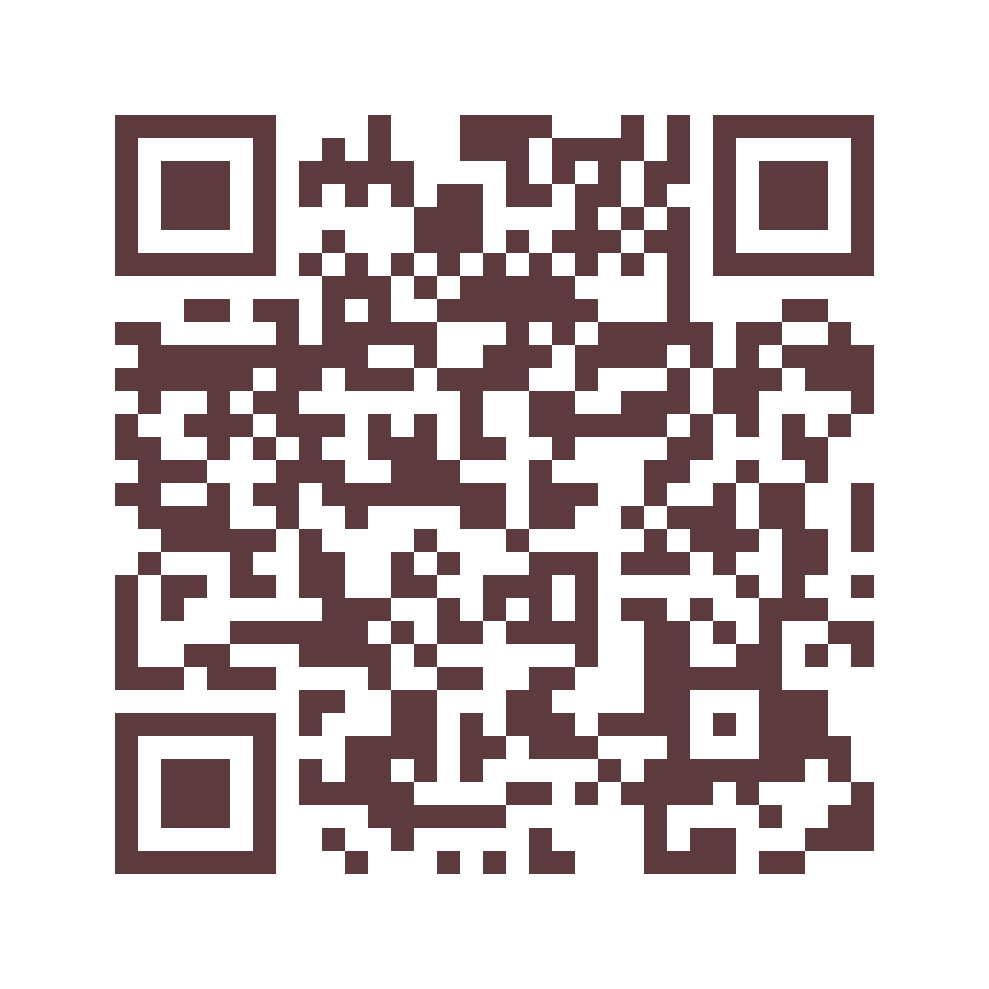
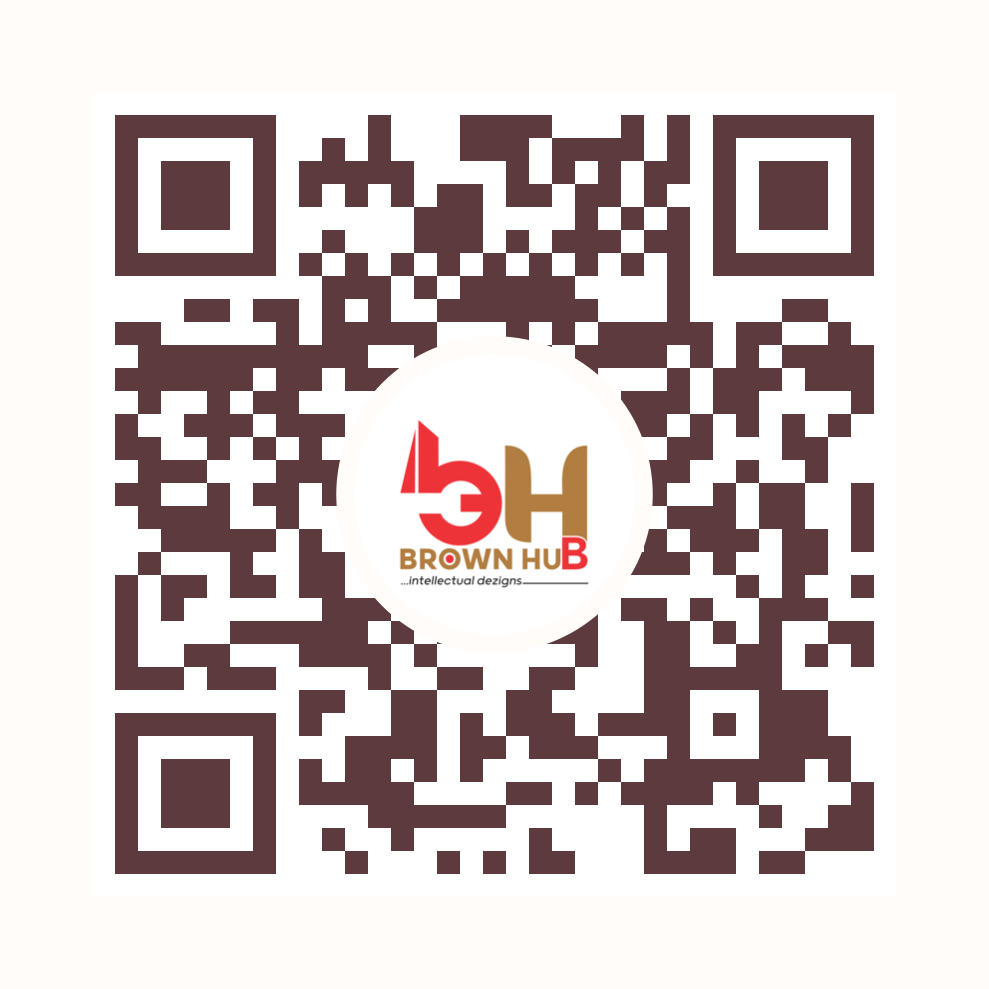
Set the studio badge in the middle of the install code
The QR was a plain black-and-cream square, so it read as a generic link
rather than something BrownHub handed you. Level H correction carries the
carved-out centre: 0.32 of the side covers about a tenth of the modules
and still decodes at every size down to 80px and under an 8px blur, while
0.40 fails outright, so there is no headroom above what shipped.

The generator now lives in tools/ so the file is reproducible, which means
the Jekyll exclude list grows a fourth entry — the repository is the
deployment, and a build script has no business answering at a public URL.

Changed region(s): [[0.3337, 0.3337, 0.6673, 0.6673]]

diff --git a/tools/qrlogo.swift b/tools/qrlogo.swift
@@ -1,0 +1,101 @@
+// qrlogo <text> <out.png> <logo.png> [px] [quiet] [badge fraction]
+// BrownHub QR with the studio badge in the middle. Level H correction carries a mask of
+// roughly a tenth of the modules, so the centre is carved out on a clean cream disc (a
+// QR is scanned by its grid, never by its fill colour, so a solid light patch reads as
+// background). The finished file is decoded back with Vision and CoreImage, and Vision
+// has to read the payload for this script to exit 0.
+// 0.32 is the shipped size: it decodes at every rendered size down to 80px and under a
+// 8px blur, and 0.40 does not decode at all, so there is no headroom above it.
+import Cocoa
+import CoreImage
+import Vision
+
+let a = CommandLine.arguments
+guard a.count >= 4, let text = a[1].data(using: .utf8) else {
+    FileHandle.standardError.write("usage: qrlogo <text> <out.png> <logo.png> [px] [quiet]\n".data(using: .utf8)!)
+    exit(2)
+}
+let px = a.count > 4 ? (Int(a[4]) ?? 1024) : 1024
+let quiet = a.count > 5 ? (Int(a[5]) ?? 4) : 4
+let frac = a.count > 6 ? (Double(a[6]) ?? 0.32) : 0.32
+let cream = (r: CGFloat(1.0), g: CGFloat(0.984), b: CGFloat(0.969))   // #fffbf7
+
+func vec(_ v: [CGFloat]) -> CIVector { CIVector(values: v, count: 4) }
+func die(_ m: String) -> Never { FileHandle.standardError.write((m + "\n").data(using: .utf8)!); exit(1) }
+
+guard let gen = CIFilter(name: "CIQRCodeGenerator") else { die("no generator filter") }
+gen.setValue(text, forKey: "inputMessage")
+gen.setValue("H", forKey: "inputCorrectionLevel")
+guard let raw = gen.outputImage else { die("no code") }
+let mods = Int(raw.extent.width.rounded())
+
+guard let tint = CIFilter(name: "CIColorMatrix") else { die("no colour filter") }
+tint.setValue(raw, forKey: "inputImage")
+tint.setValue(vec([0.894, 0.0, 0.0, 0.0]), forKey: "inputRVector")
+tint.setValue(vec([0.0, 0.957, 0.0, 0.0]), forKey: "inputGVector")
+tint.setValue(vec([0.0, 0.0, 0.953, 0.0]), forKey: "inputBVector")
+tint.setValue(vec([0.0, 0.0, 0.0, 1.0]), forKey: "inputAVector")
+tint.setValue(vec([0.106, 0.043, 0.047, 0.0]), forKey: "inputBiasVector")
+guard let inked = tint.outputImage else { die("no tint") }
+
+let per = max(1, px / (mods + 2 * quiet))          // whole modules, never a half-pixel edge
+let side = (mods + 2 * quiet) * per
+
+guard let ctx = CGContext(data: nil, width: side, height: side, bitsPerComponent: 8, bytesPerRow: 0,
+                          space: CGColorSpaceCreateDeviceRGB(),
+                          bitmapInfo: CGImageAlphaInfo.premultipliedLast.rawValue) else { die("no context") }
+ctx.interpolationQuality = .none
+ctx.setFillColor(CGColor(red: cream.r, green: cream.g, blue: cream.b, alpha: 1))
+ctx.fill(CGRect(x: 0, y: 0, width: side, height: side))
+
+let ci = CIContext()
+guard let cg = ci.createCGImage(inked, from: inked.extent) else { die("no bitmap") }
+ctx.draw(cg, in: CGRect(x: quiet * per, y: quiet * per, width: mods * per, height: mods * per))
+
+// Clear the centre to the same cream the code sits on, then stamp the badge into it.
+let box = CGFloat(side) * CGFloat(frac)
+let inset = box * 0.055
+let cx = CGFloat(side) / 2.0
+let r = box / 2.0
+let hole = CGRect(x: cx - r, y: cx - r, width: box, height: box)
+ctx.saveGState()
+ctx.setFillColor(CGColor(red: cream.r, green: cream.g, blue: cream.b, alpha: 1))
+ctx.addPath(CGPath(roundedRect: hole, cornerWidth: r, cornerHeight: r, transform: nil))
+ctx.fillPath()
+ctx.restoreGState()
+
+guard let logoSrc = CGImageSourceCreateWithURL(URL(fileURLWithPath: a[3]) as CFURL, nil),
+      let badge = CGImageSourceCreateImageAtIndex(logoSrc, 0, nil) else { die("no logo") }
+let d = badge.width >= badge.height ? CGFloat(badge.width) / CGFloat(box - 2 * inset)
+                                   : CGFloat(badge.height) / CGFloat(box - 2 * inset)
+let w = CGFloat(badge.width) / d
+let h = CGFloat(badge.height) / d
+// CoreImage draws from the bottom left, so the badge's top edge is hole.maxY - inset.
+ctx.interpolationQuality = .high
+ctx.draw(badge, in: CGRect(x: cx - w / 2, y: hole.maxY - inset - h, width: w, height: h))
+
+ctx.interpolationQuality = .none
+guard let out = ctx.makeImage() else { die("no output image") }
+let url = URL(fileURLWithPath: a[2])
+guard let dst = CGImageDestinationCreateWithURL(url as CFURL, "public.png" as CFString, 1, nil) else { die("no destination") }
+CGImageDestinationAddImage(dst, out, nil)
+if !CGImageDestinationFinalize(dst) { die("finalize failed") }
+
+guard let back = CIImage(contentsOf: url) else { die("no readback file") }
+let det = CIDetector(ofType: CIDetectorTypeQRCode, context: ci, options: [CIDetectorAccuracy: CIDetectorAccuracyHigh])
+let ciMsgs = (det?.features(in: back) ?? []).compactMap { ($0 as? CIQRCodeFeature)?.messageString }
+let bytes = (try? Data(contentsOf: url).count) ?? -1
+
+// Vision is the decoder Safari and a phone camera effectively are, and it tolerates a
+// centre badge far better than CIDetector, so it is the gate that has to pass.
+guard let src = CGImageSourceCreateWithURL(url as CFURL, nil),
+      let probe = CGImageSourceCreateImageAtIndex(src, 0, nil) else { die("no probe bitmap") }
+let req = VNDetectBarcodesRequest()
+req.symbologies = [.qr]
+try? VNImageRequestHandler(cgImage: probe, options: [:]).perform([req])
+let vnMsgs = (req.results as? [VNBarcodeObservation]) ?? []
+print("file=\(a[2]) side=\(side) mods=\(mods) per=\(per) badge_frac=\(frac) bytes=\(bytes)")
+print("vision=\(vnMsgs.count) coreimage=\(ciMsgs)")
+let ok = vnMsgs.contains { $0.payloadStringValue == a[1] }
+print(ok ? "MATCH" : "MISMATCH")
+if !ok { die("the shipped code does not read back") }

diff --git a/contact.html b/contact.html
@@ -182,7 +182,7 @@
     </div>
   </div>
 
-  <script src="js/main.js?v=29"></script><script src="js/translate.js?v=81"></script><script src="js/app.js?v=3"></script><script src="js/chat.js?v=29"></script><script src="js/accounts.js?v=18"></script>
+  <script src="js/main.js?v=29"></script><script src="js/translate.js?v=81"></script><script src="js/app.js?v=4"></script><script src="js/chat.js?v=29"></script><script src="js/accounts.js?v=18"></script>
   <script src="js/scroll.js?v=3"></script>
   <script src="js/nav.js?v=4"></script><script src="js/search.js?v=8"></script><script src="js/cookies.js?v=5"></script><script src="js/social.js?v=1"></script>
 

diff --git a/404.html b/404.html
@@ -165,7 +165,7 @@
     </div>
   </footer>
 
-  <script src="js/main.js?v=29"></script><script src="js/translate.js?v=81"></script><script src="js/app.js?v=3"></script>
+  <script src="js/main.js?v=29"></script><script src="js/translate.js?v=81"></script><script src="js/app.js?v=4"></script>
   <script src="js/scroll.js?v=3"></script>
   <script src="js/nav.js?v=4"></script><script src="js/search.js?v=8"></script><script src="js/cookies.js?v=5"></script><script src="js/social.js?v=1"></script>
 

diff --git a/about.html b/about.html
@@ -305,7 +305,7 @@
     </div>
   </footer>
 
-  <script src="js/main.js?v=29"></script><script src="js/translate.js?v=81"></script><script src="js/app.js?v=3"></script>
+  <script src="js/main.js?v=29"></script><script src="js/translate.js?v=81"></script><script src="js/app.js?v=4"></script>
 
   <div class="chat-widget">
     <button class="chat-widget__toggle" id="chatToggle" aria-expanded="false" aria-controls="chatPanel" title="Chat with BrownHub Studio Assistance">

diff --git a/catalog.html b/catalog.html
@@ -400,7 +400,7 @@
     </div>
   </footer>
 
-  <script src="js/main.js?v=29"></script><script src="js/translate.js?v=81"></script><script src="js/app.js?v=3"></script>
+  <script src="js/main.js?v=29"></script><script src="js/translate.js?v=81"></script><script src="js/app.js?v=4"></script>
 
   <div class="chat-widget">
     <button class="chat-widget__toggle" id="chatToggle" aria-expanded="false" aria-controls="chatPanel" title="Chat with BrownHub Studio Assistance">

diff --git a/legal.html b/legal.html
@@ -224,7 +224,7 @@
     </div>
   </footer>
 
-  <script src="js/main.js?v=29"></script><script src="js/translate.js?v=81"></script><script src="js/app.js?v=3"></script>
+  <script src="js/main.js?v=29"></script><script src="js/translate.js?v=81"></script><script src="js/app.js?v=4"></script>
 
   <div class="chat-widget">
     <button class="chat-widget__toggle" id="chatToggle" aria-expanded="false" aria-controls="chatPanel" title="Chat with BrownHub Studio Assistance">

diff --git a/privacy.html b/privacy.html
@@ -190,7 +190,7 @@
     </div>
   </footer>
 
-  <script src="js/main.js?v=29"></script><script src="js/translate.js?v=81"></script><script src="js/app.js?v=3"></script>
+  <script src="js/main.js?v=29"></script><script src="js/translate.js?v=81"></script><script src="js/app.js?v=4"></script>
 
   <div class="chat-widget">
     <button class="chat-widget__toggle" id="chatToggle" aria-expanded="false" aria-controls="chatPanel" title="Chat with BrownHub Studio Assistance">

diff --git a/security.html b/security.html
@@ -216,7 +216,7 @@
     </div>
   </footer>
 
-  <script src="js/main.js?v=29"></script><script src="js/translate.js?v=81"></script><script src="js/app.js?v=3"></script>
+  <script src="js/main.js?v=29"></script><script src="js/translate.js?v=81"></script><script src="js/app.js?v=4"></script>
 
   <div class="chat-widget">
     <button class="chat-widget__toggle" id="chatToggle" aria-expanded="false" aria-controls="chatPanel" title="Chat with BrownHub Studio Assistance">

diff --git a/services.html b/services.html
@@ -442,7 +442,7 @@
     </div>
   </footer>
 
-  <script src="js/main.js?v=29"></script><script src="js/translate.js?v=81"></script><script src="js/app.js?v=3"></script>
+  <script src="js/main.js?v=29"></script><script src="js/translate.js?v=81"></script><script src="js/app.js?v=4"></script>
 
   <div class="chat-widget">
     <button class="chat-widget__toggle" id="chatToggle" aria-expanded="false" aria-controls="chatPanel" title="Chat with BrownHub Studio Assistance">

diff --git a/websites.html b/websites.html
@@ -327,7 +327,7 @@
     </div>
   </footer>
 
-  <script src="js/main.js?v=29"></script><script src="js/translate.js?v=81"></script><script src="js/app.js?v=3"></script>
+  <script src="js/main.js?v=29"></script><script src="js/translate.js?v=81"></script><script src="js/app.js?v=4"></script>
 
   <div class="chat-widget">
     <button class="chat-widget__toggle" id="chatToggle" aria-expanded="false" aria-controls="chatPanel" title="Chat with BrownHub Studio Assistance">

diff --git a/index.html b/index.html
@@ -929,7 +929,7 @@
     </div>
   </div>
 
-  <script src="js/main.js?v=29"></script><script src="js/translate.js?v=81"></script><script src="js/app.js?v=3"></script>
+  <script src="js/main.js?v=29"></script><script src="js/translate.js?v=81"></script><script src="js/app.js?v=4"></script>
 
   <div class="chat-widget">
     <button class="chat-widget__toggle" id="chatToggle" aria-expanded="false" aria-controls="chatPanel" title="Chat with BrownHub Studio Assistance">

diff --git a/js/app.js b/js/app.js
@@ -52,7 +52,7 @@
       // the studio prints on a card, so what a visitor scans is what we verified.
       var code = doc.createElement("img");
       code.className = "install__qr";
-      code.src = "images/qr-app.png";
+      code.src = "images/qr-app.png?v=2";
       code.width = 104;
       code.height = 104;
       code.alt = tr("QR code linking to the BrownHub Studio app");
